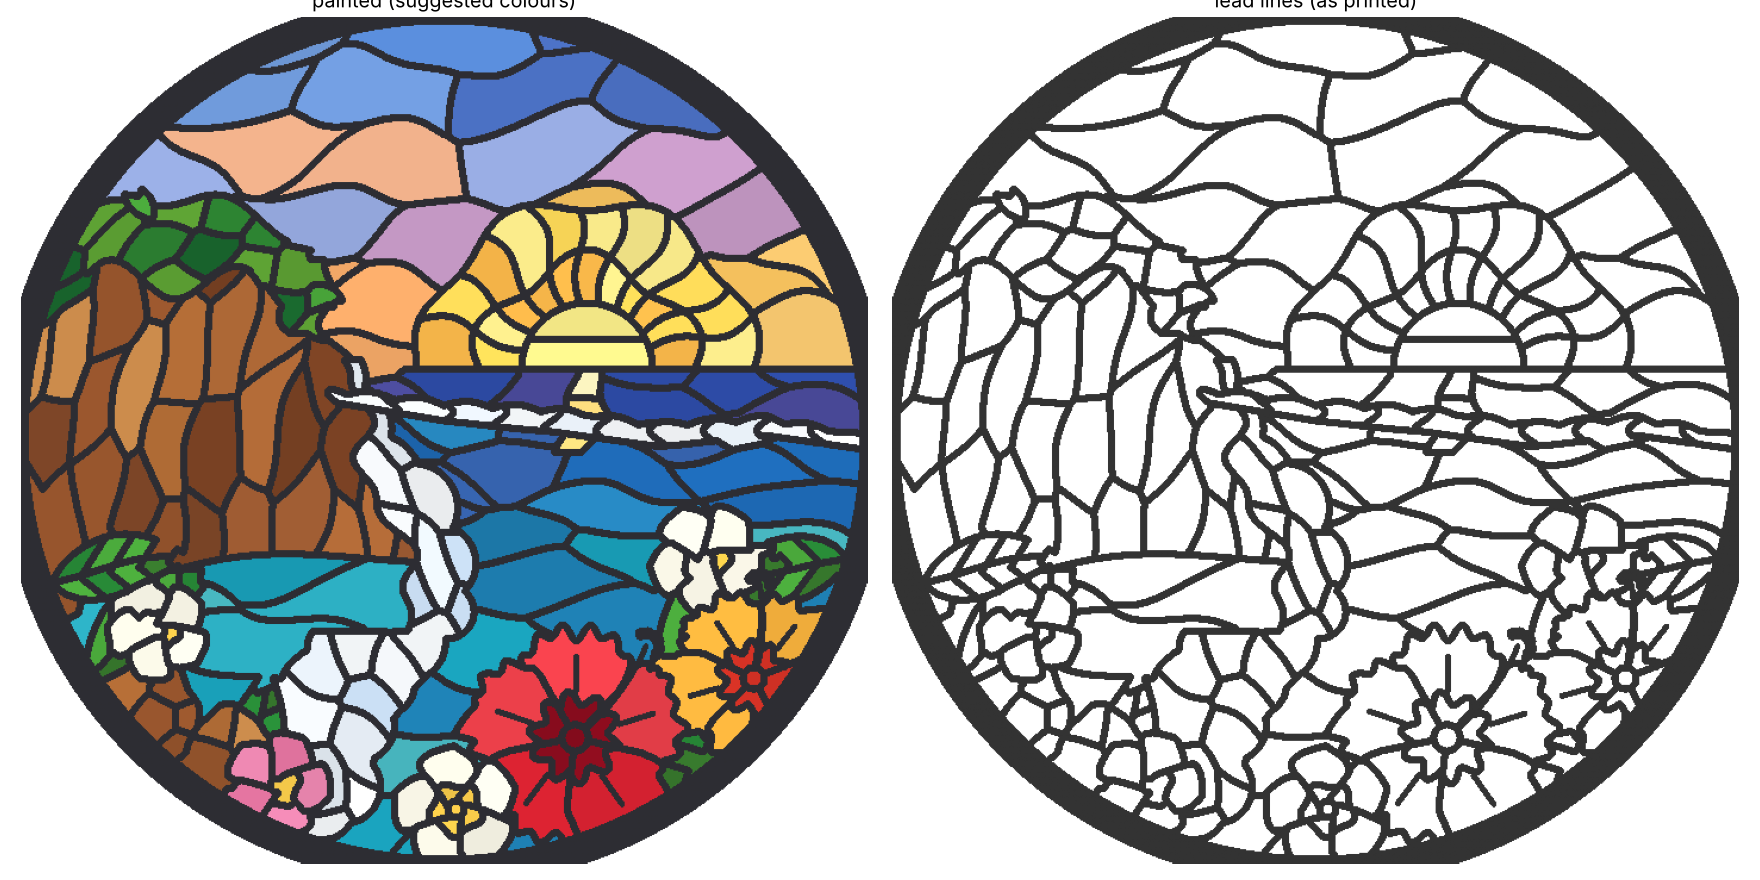
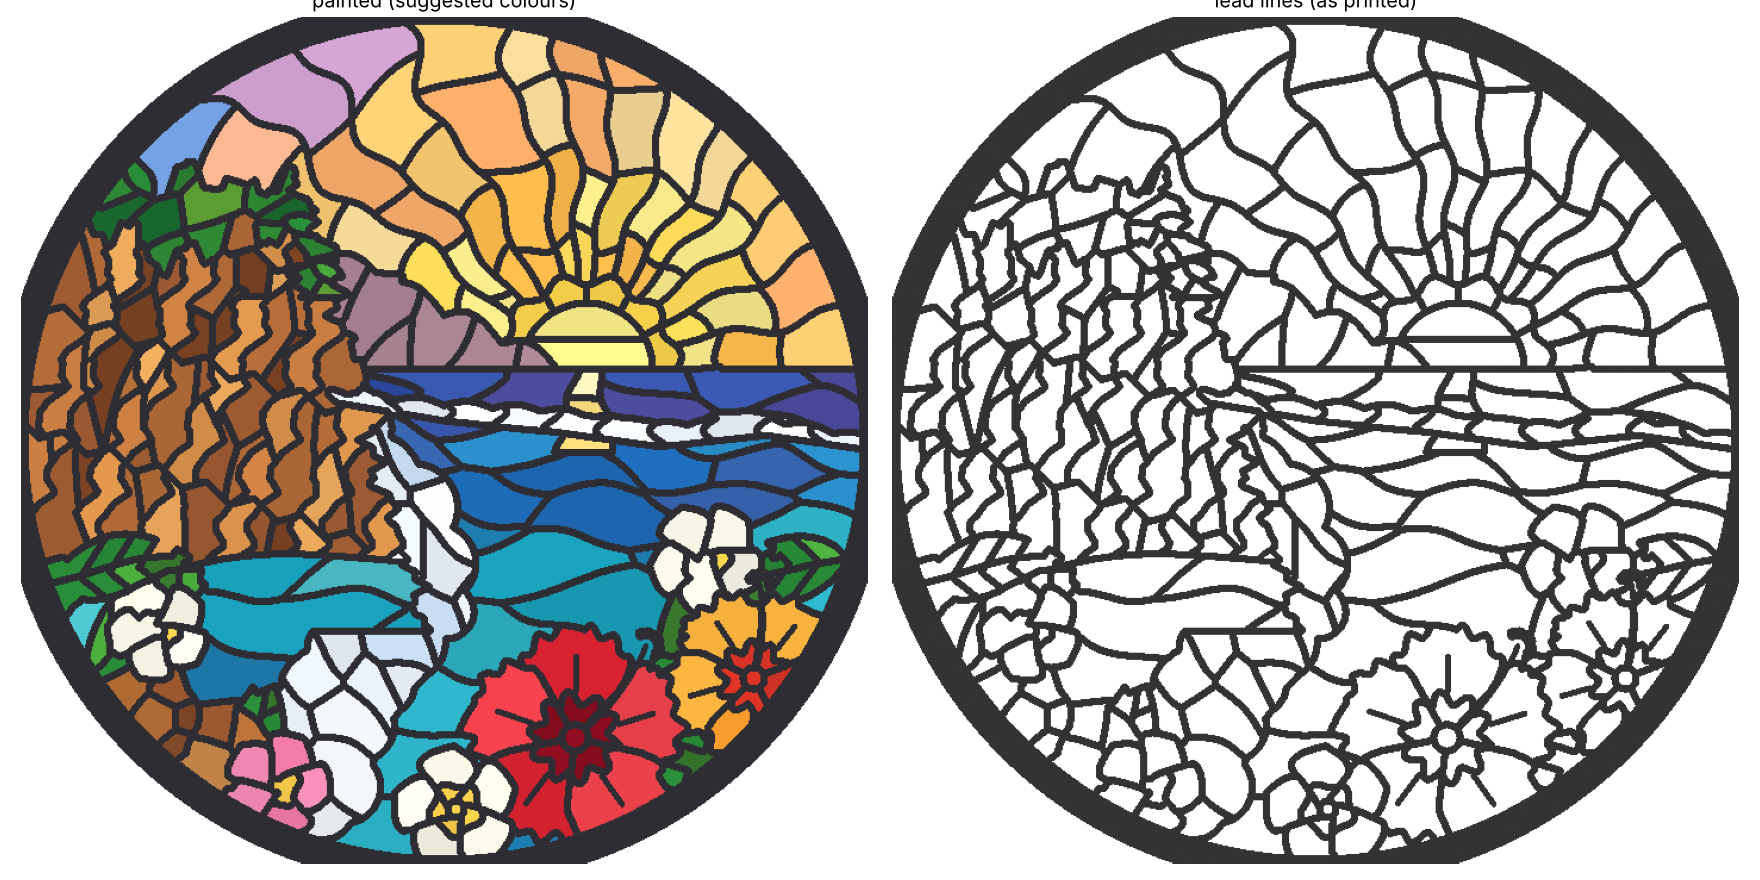
wave-suncatcher: full-sky sun rays; jagged cliff with lit and shadowed crags
Rays fan across the whole sky in hand-cut pieces; the cliff gets a jagged
skyline and face, lit and shadowed buttresses, ledges, and a paler far
headland behind it for depth.

Claude-Session: https://claude.ai/code/session_017ftLatXiQgThsoC1M9thCT

diff --git a/3d-prints/wave-suncatcher/suncatcher.py b/3d-prints/wave-suncatcher/suncatcher.py
@@ -63,6 +63,10 @@ PALETTE = {
     "ray": [(1.0, 0.86, 0.35), (1.0, 0.74, 0.30), (0.99, 0.93, 0.55)],
     "sun": [(1.0, 0.95, 0.55)],
     "rock": [(0.60, 0.34, 0.18), (0.72, 0.44, 0.22), (0.50, 0.28, 0.16), (0.80, 0.55, 0.30)],
+    "rock_lit": [(0.86, 0.58, 0.30), (0.92, 0.66, 0.36), (0.80, 0.50, 0.26)],
+    "rock_far": [(0.62, 0.48, 0.55), (0.70, 0.55, 0.60)],
+    "leaf_far": [(0.42, 0.58, 0.45), (0.50, 0.65, 0.48)],
+    "glow": [(1.0, 0.84, 0.30)],
     "rock_dk": [(0.48, 0.26, 0.14), (0.62, 0.36, 0.20), (0.70, 0.42, 0.22)],
     "leaf": [(0.16, 0.55, 0.22), (0.30, 0.68, 0.24), (0.22, 0.48, 0.18)],
     "leaf_dk": [(0.10, 0.40, 0.18), (0.18, 0.52, 0.20), (0.36, 0.62, 0.20)],
@@ -253,34 +257,58 @@ def design(res):
     H0 = HORIZON
     S, sr = SUN
 
-    # ---- sky: long soft streaks of sunset, finer near the sun
+    # ---- sky: rays fanning out from the sun across the whole sky, each ray
+    # cut into a few pieces by wavy arcs; warm near the sun, cooler out
     sky = Y >= H0
-
-    def sky_cat(x, y):
-        h = (y - H0) / (R_IN - H0)
-        d = np.hypot(x - S[0], y - S[1])
-        if d < 30:
-            return "sky_sun"
-        return "sky_lo" if h < 0.35 else ("sky_mid" if h < 0.7 else "sky_hi")
-    shatter(M, sky, sky_cat, 9.0, ang=np.radians(4), stretch=2.6, amp=1.6, seed=1)
-    # sun rays: irregular wedges round the sun
     rs = np.hypot(X - S[0], Y - S[1])
     th = np.arctan2(Y - S[1], X - S[0])
-    rays = sky & (rs < sr + 17 + 1.5 * np.sin(th * 7))
-    tw = th + 0.06 * np.sin(rs / 3.0)
-    edges = np.radians(np.array([0, 17, 31, 48, 62, 79, 95, 110, 128, 146, 163, 180]) - 0.5)
-    M.paint_split(rays, np.digitize(tw, edges) * 10 + (rs > sr + 7 + 2 * np.sin(th * 5)), "ray")
+    rng = np.random.default_rng(5)
+    widths = rng.uniform(9, 16, 30)
+    edges = np.radians(np.cumsum(np.r_[-1.0, widths]) - 0.0)
+    tw = th + 0.035 * np.sin(rs / 5.0 + 1.0) + 0.02 * np.sin(rs / 2.3)
+    ray = np.digitize(tw, edges)
+    arc = np.zeros(X.shape, int)
+    for k in range(len(edges) + 1):
+        m = ray == k
+        cuts = sr + np.cumsum(rng.uniform(8, 13, 6) * np.array([1.0, 1.15, 1.3, 1.45, 1.6, 1.8]))
+        wob = 1.6 * np.sin(th[m] * 9 + k)
+        arc[m] = np.digitize(rs[m] + wob, cuts)
+
+    def sky_cat_k(a_):
+        return ["ray", "ray", "sky_lo", "sky_lo", "sky_mid", "sky_hi", "sky_hi"][min(a_, 6)]
+    for a_ in np.unique(arc[sky]):
+        M.paint_split(sky & (arc == a_), ray, sky_cat_k(a_))
+    M.paint_split(sky & (rs < sr + 4 + 1.0 * np.sin(th * 11)), np.floor(np.degrees(th) / 30).astype(int), "glow")
     M.paint_split(sky & (rs < sr), np.digitize(Y - H0, [sr * 0.45]), "sun")
 
-    # ---- the cliff on the left, jungle on top
-    top = 40 + 3.5 * np.sin(X / 9.0) + 1.5 * np.sin(X / 3.3) - 0.10 * (X + 70)
-    face = -24 + 0.30 * (40 - Y) + 2.2 * np.sin(Y / 4.0) + 1.2 * np.sin(Y / 1.7)
+    # ---- a far headland behind the cliff (paler, for depth)
+    far_top = H0 + 24 - 0.5 * np.clip(X + 30, 0, None) + 2.5 * np.abs(np.sin(X / 3.1)) - 0.012 * (X + 30) ** 2 * (X < -30)
+    far = sky & (Y < far_top) & (X < 20)
+    shatter(M, far, lambda x, y: "leaf_far" if y > H0 + 15 else "rock_far", 6.5, ang=np.radians(70), stretch=1.8,
+            amp=1.0, seed=8)
+
+    # ---- the cliff on the left: jagged crags, lit faces and shadowed
+    # buttresses, jungle on top
+    def tri(t):
+        return 2 * np.abs(t - np.floor(t + 0.5))
+    top = 42 - 0.10 * (X + 70) + 7 * tri(X / 9.0 + 0.3) + 2.2 * tri(X / 3.1) + 1.5 * np.sin(X / 7)
+    face = -25 + 0.30 * (40 - Y) + 3.2 * tri(Y / 7.0) + 1.4 * tri(Y / 2.6) + 1.0 * np.sin(Y / 4.0)
     cliff = (X < face) & (Y < top) & (Y > -34 + 6 * np.sin((X + 70) / 18.0) + 0.25 * (X + 70))
-    shatter(M, cliff, lambda x, y: "rock_dk" if x > -40 else "rock", 6.0, ang=np.radians(80), stretch=2.4,
-            amp=1.0, seed=2)
-    green = cliff & ((Y > top - 13 - 3 * np.sin(X / 4.0)) | ((X > face - 6 - 2 * np.sin(Y / 3)) & (Y > 18) & (Y < top)))
-    jungle_x = [(-64, 44, 11, 60), (-54, 47, 12, 85), (-44, 45, 11, 70), (-34, 41, 10, 30), (-60, 36, 9, 150),
-                (-27, 33, 8, -20), (-49, 37, 9, 120), (-22, 26, 7, -40)]
+    colc = (X + 0.42 * (40 - Y) + 3.0 * tri(Y / 9.0) + 0.8 * tri(Y / 4.3)) / 12.5
+    col = np.floor(colc).astype(int)
+    lit = (colc - col) < 0.42
+    ledge = np.floor((Y + 0.35 * X + 2.5 * tri(X / 8.0)) / 21.0).astype(int)
+    for k in np.unique(col[cliff]):
+        for li in (True, False):
+            for lg in np.unique(ledge[cliff & (col == k)]):
+                m = cliff & (col == k) & (lit == li) & (ledge == lg)
+                if m.sum() * res * res < 4:
+                    continue
+                shatter(M, m, "rock_lit" if li else "rock_dk", 6.0, ang=np.radians(78), stretch=2.4, amp=0.6,
+                        seed=100 + 7 * int(k) + 3 * int(lg) + int(li))
+    green = cliff & ((Y > top - 11 - 3 * np.sin(X / 4.0)) | ((X > face - 5 - 2 * np.sin(Y / 3)) & (Y > 24) & (Y < top)))
+    jungle_x = [(-64, 47, 11, 60), (-54, 50, 12, 85), (-44, 49, 11, 70), (-34, 45, 10, 30), (-60, 38, 9, 150),
+                (-27, 37, 8, -20), (-49, 41, 9, 120), (-22, 30, 7, -40)]
     shatter(M, green, "leaf_dk", 5.0, ang=np.radians(35), stretch=2.0, amp=1.2, seed=3)
     for k, (x0, y0, L, ang) in enumerate(jungle_x):
         a = np.radians(ang)
